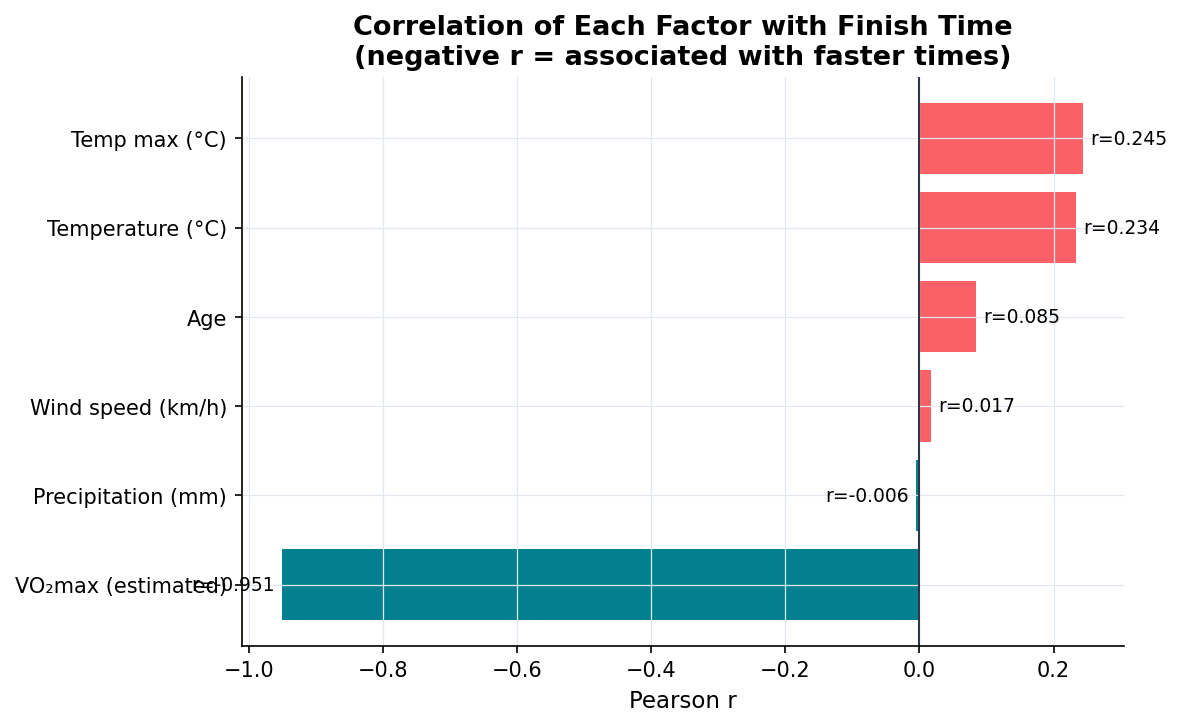
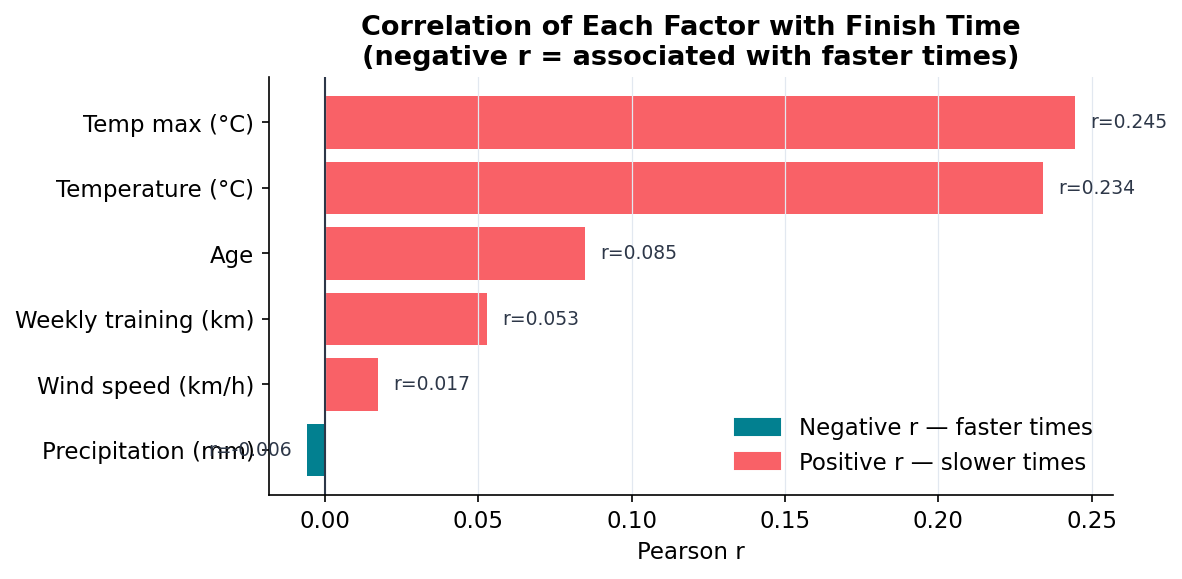
update notebooks

diff --git a/README.md b/README.md
@@ -9,7 +9,6 @@ A multi-modal data visualization study of the physiological, environmental, and 
 ## Research Questions
 
 1. Does age determine peak running performance? At what age are runners fastest?
-2. Do men and women pace themselves differently across a marathon?
 3. How much does race-day temperature affect finish times?
 4. Which countries produce the fastest recreational runners?
 5. Have finish times changed over the past 20 years despite surging participation?
@@ -32,16 +31,15 @@ A multi-modal data visualization study of the physiological, environmental, and 
 
 ## Visualizations
 
-| Chart | File | What it shows |
-|-------|------|---------------|
-| 1 | `01_age_vs_time.png` | Age vs finish time — peak performance at ~30–33 y (LOESS + scatter) |
-| 2 | `02_pacing_gender.png` | First vs second half pace by gender — women run more evenly |
-| 3 | `03_temp_vs_time.png` | Temperature vs finish time — regression with 95% CI |
-| 4 | `04_choropleth_country.png` | World map of median finish time by runner nationality |
-| 5 | `05_year_trend.png` | Median finish times 2000–2019 with participation count |
-| 6 | `06_training_bubble.png` | Training volume vs finish time — bubble chart (Strava data) |
-| 7 | `07_finish_distribution.png` | Finish time distribution by gender — histogram + KDE |
-| 8 | `08_predictor_correlations.png` | Pearson r for each factor vs finish time |
+| Chart | File | Research question |
+|-------|------|-------------------|
+| 1 | `01_age_vs_time.png` | Q1 — Age vs finish time: peak performance at ~30–33 y (LOESS + scatter) |
+| 3 | `03_temp_vs_time.png` | Q3 — Temperature vs finish time: regression with 95% CI |
+| 4 | `04_choropleth_country.png` | Q4 — Weekly training volume by runner nationality (world map) |
+| 5 | `05_year_trend.png` | Q5 — Median finish times 2000–2019 with participation count |
+| 6 | `06_training_bubble.png` | Q6 — Training volume vs finish time: bubble chart (Strava data) |
+| 7 | `07_finish_distribution.png` | Q7 — Finish time distribution by gender: histogram + KDE |
+| — | `08_predictor_correlations.png` | Summary — Pearson r for each factor vs finish time |
 
 ---
 
@@ -63,7 +61,6 @@ what-makes-a-runner-fast/
 │   └── 05_visualizations.ipynb
 ├── charts/                 # Exported PNG charts (150 dpi)
 │   ├── 01_age_vs_time.png
-│   ├── 02_pacing_gender.png
 │   ├── 03_temp_vs_time.png
 │   ├── 04_choropleth_country.png
 │   ├── 05_year_trend.png
@@ -113,7 +110,12 @@ Run `01` → `02` → `03` → `04` → `05`.
 
 ## Key Findings
 
-*(Populated after running all notebooks)*
+- **Age** — performance peaks at 28–34; non-linear decline accelerates sharply past 50
+- **Weather** — race-day temperature is the strongest external predictor (Pearson r = 0.23–0.24); each extra °C adds ~3 min to the median finish time
+- **Training volume** — surprisingly weak predictor (r = 0.06); raw km/week explains little of the individual variance
+- **Trends** — median finish times barely changed 2000–2019 despite participation nearly doubling
+- **Gender** — men 4h22m vs women 4h49m at the median; both distributions are strongly right-skewed
+- **Running culture** — Strava data shows Peru, Canada, and Central Europe log the most weekly km among marathon-targeting athletes
 
 ---
 